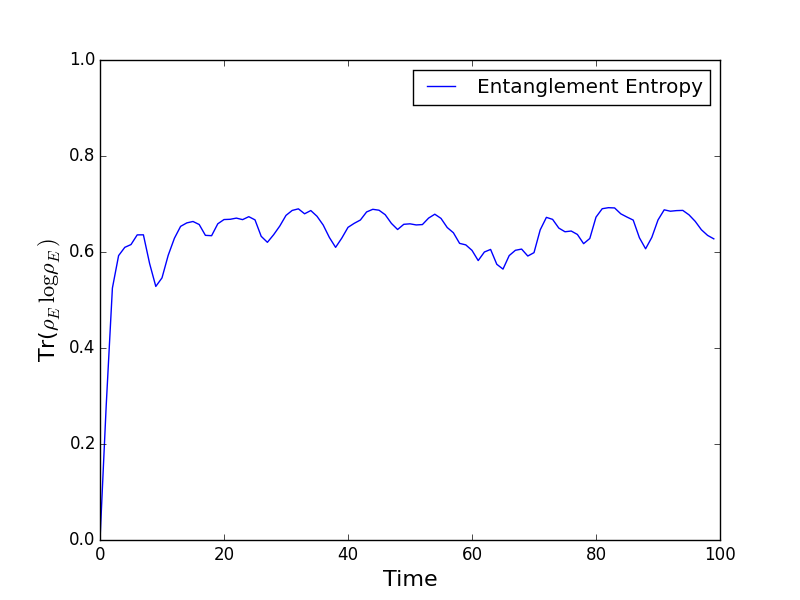
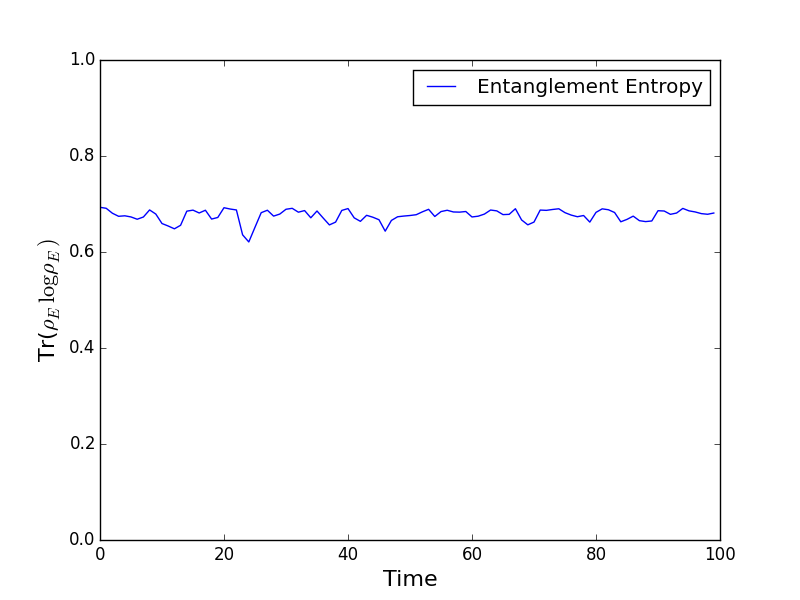
updates on entg_e

diff --git a/2e.py b/2e.py
@@ -10,12 +10,12 @@ from mpl_toolkits.mplot3d import Axes3D
 #two electron state
 
 #maximally entangled state
-#psi0 = tensor(basis(2,1),basis(2,0)) - tensor(basis(2,0),basis(2,1))
-#psi0 = tensor(basis(2,1),basis(2,0)) + tensor(basis(2,0),basis(2,1))
+#psi0 = tensor(basis(2,0),basis(2,0)) + tensor(basis(2,1),basis(2,1))
+psi0 = tensor(basis(2,1),basis(2,0)) - 1j*tensor(basis(2,0),basis(2,1))
 #psi0 = psi0.unit()
 
 #pure state |10>
-psi0 = tensor(basis(2,1),basis(2,0))
+#psi0 = tensor(basis(2,1),basis(2,0))
 
 #magnetic field
 B = 0.00
@@ -23,9 +23,10 @@ B = 0.00
 g = 1
 #exchange Hamiltonian
 H = g * 0.25 * (tensor(sigmaz(),sigmaz()) + 0.5*tensor(sigmap(),sigmam()) + 0.5*tensor(sigmam(),sigmap())) + B * tensor(sigmaz(),qeye(2)) 
-
+print H
+print H.eigenstates()
 #N = number of simulation poitns
-N = 100
+N = 1000
 
 #solving the systme
 tlist = np.linspace(0,50,N)

diff --git a/entg_e_nu.py b/entg_e_nu.py
@@ -16,7 +16,7 @@ psi_nu2 = tensor(rand_ket(2).unit(),rand_ket(2).unit(),rand_ket(2).unit()).unit(
 # |1> state = basis(2,1)
 
 psi_e = (tensor(basis(2,0),basis(2,1)) + tensor(basis(2,1),basis(2,0))).unit()
-psi_e = tensor(basis(2,0),basis(2,1))
+#psi_e = tensor(basis(2,0),basis(2,1))
 
 #exchange Hamiltonian
 #qeye(2) -> 2 x 2 identity matrix
